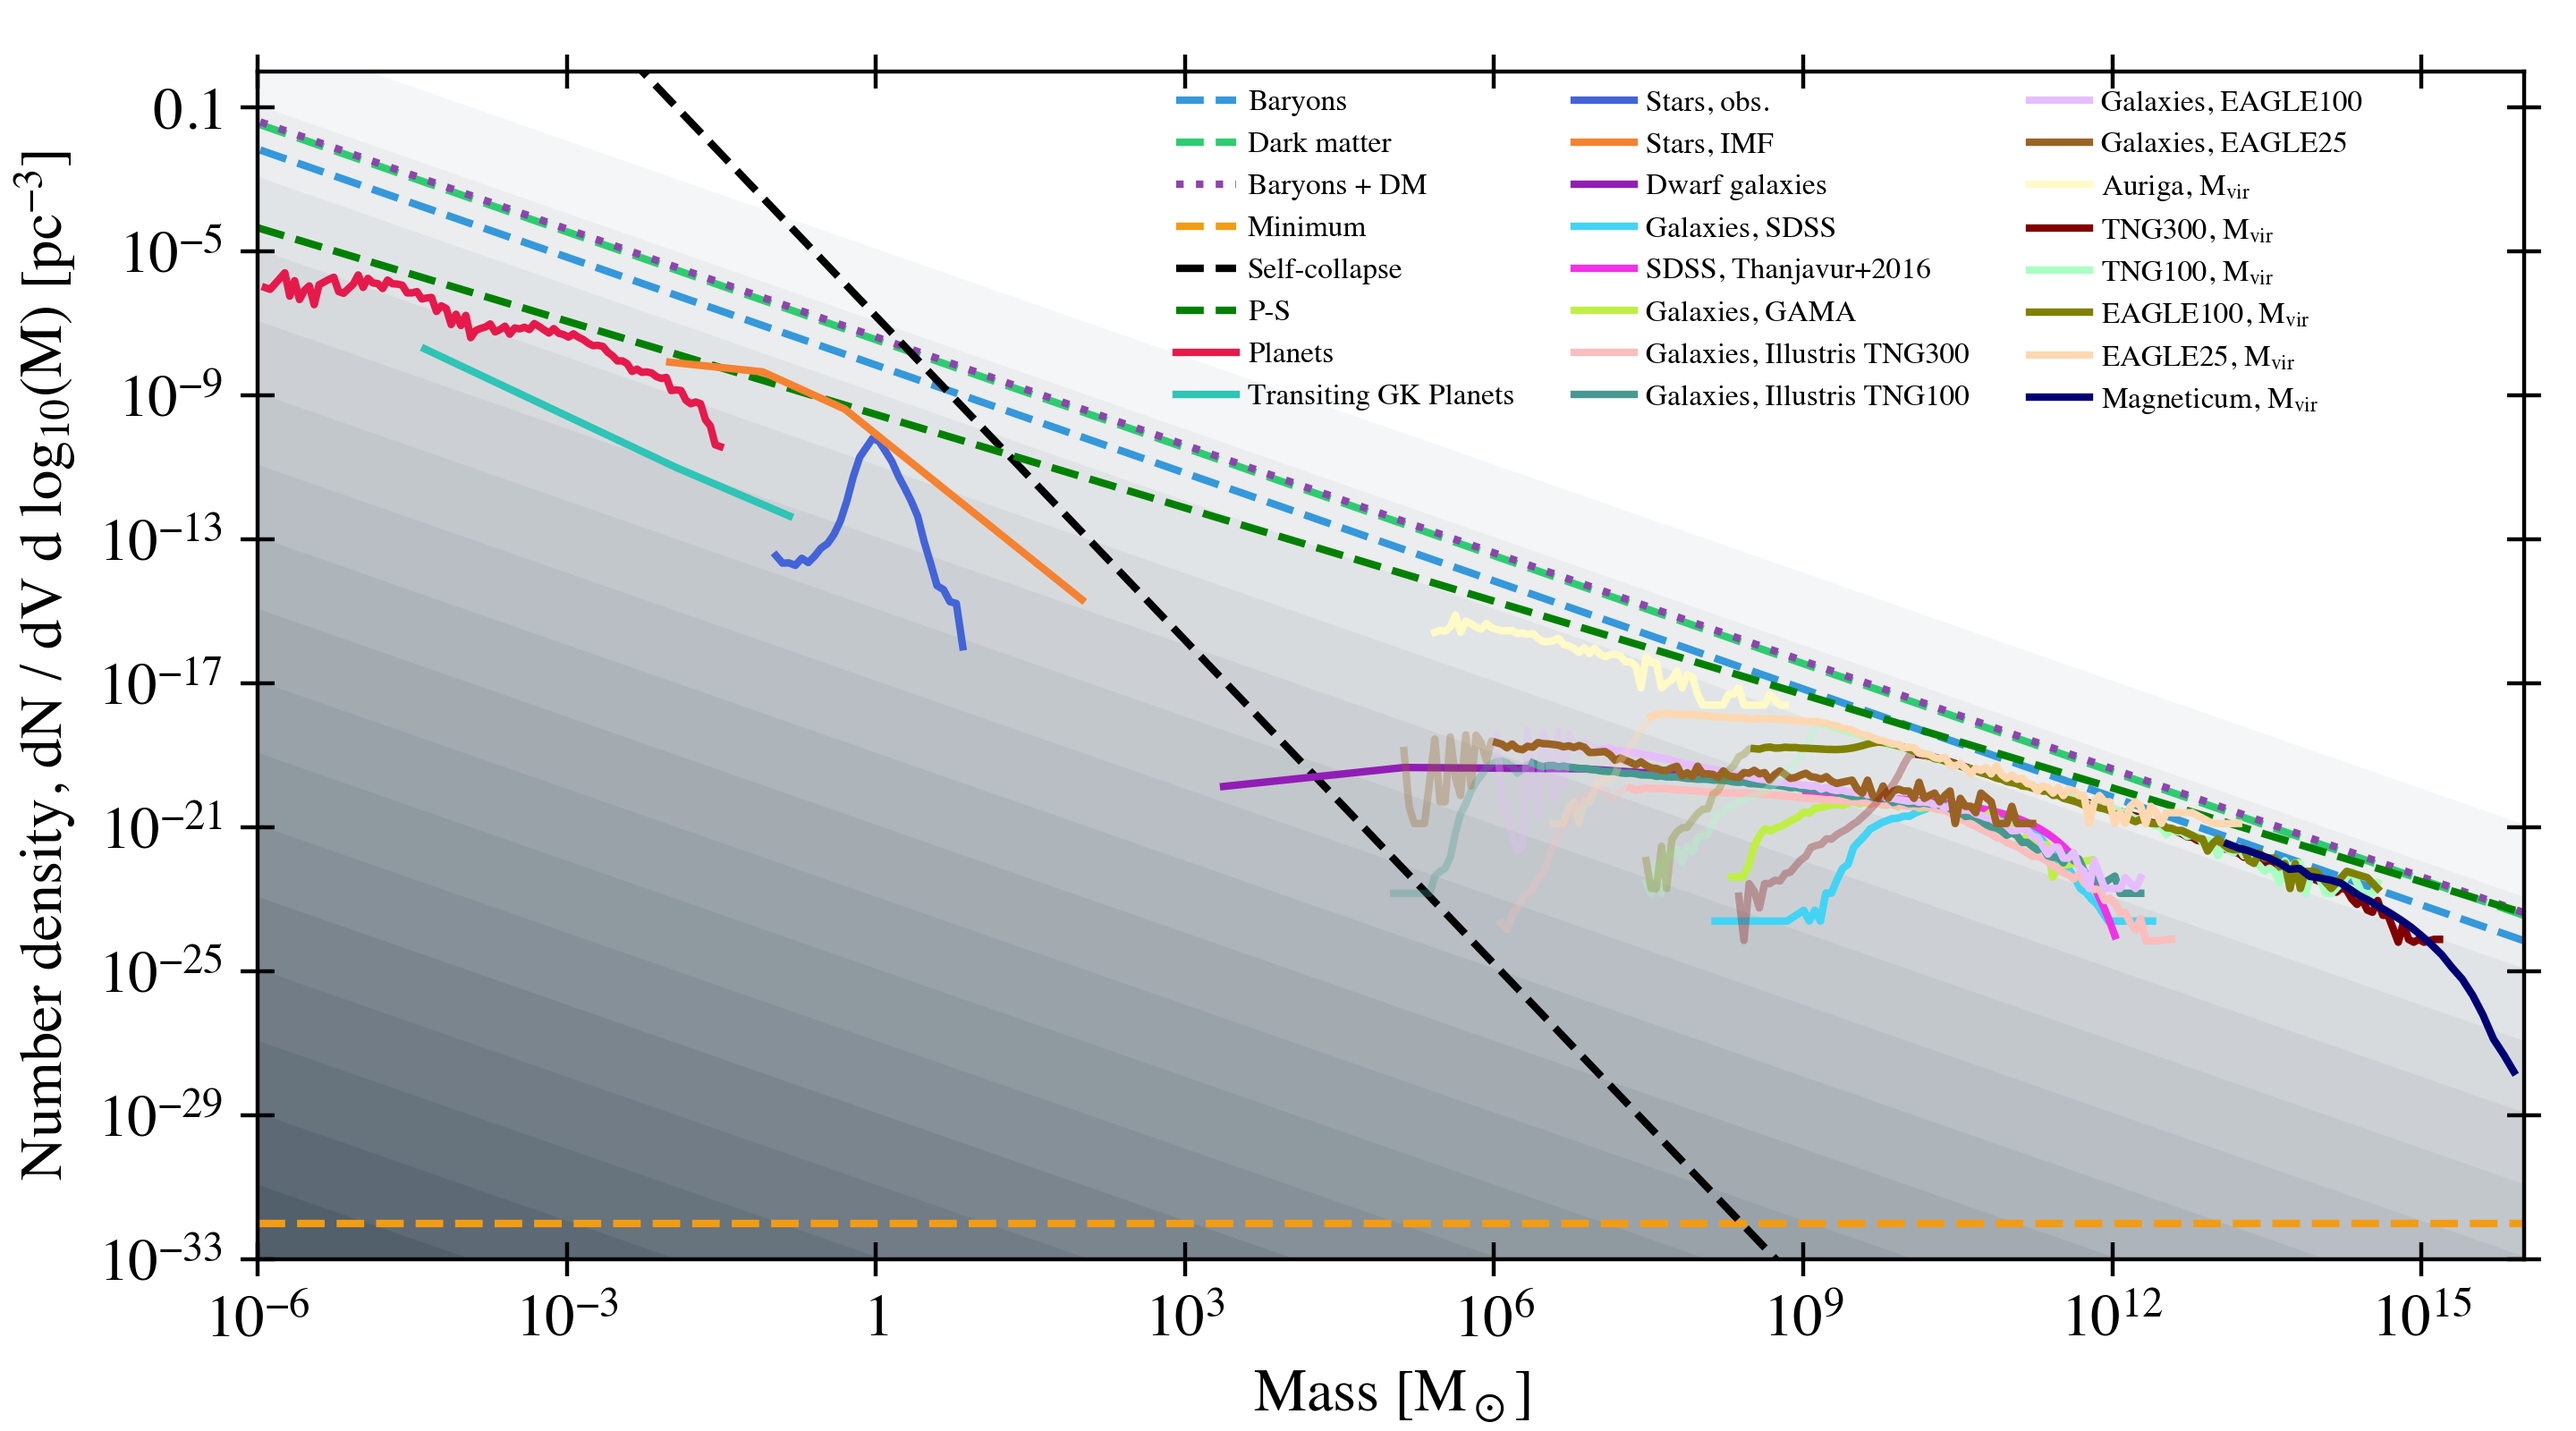
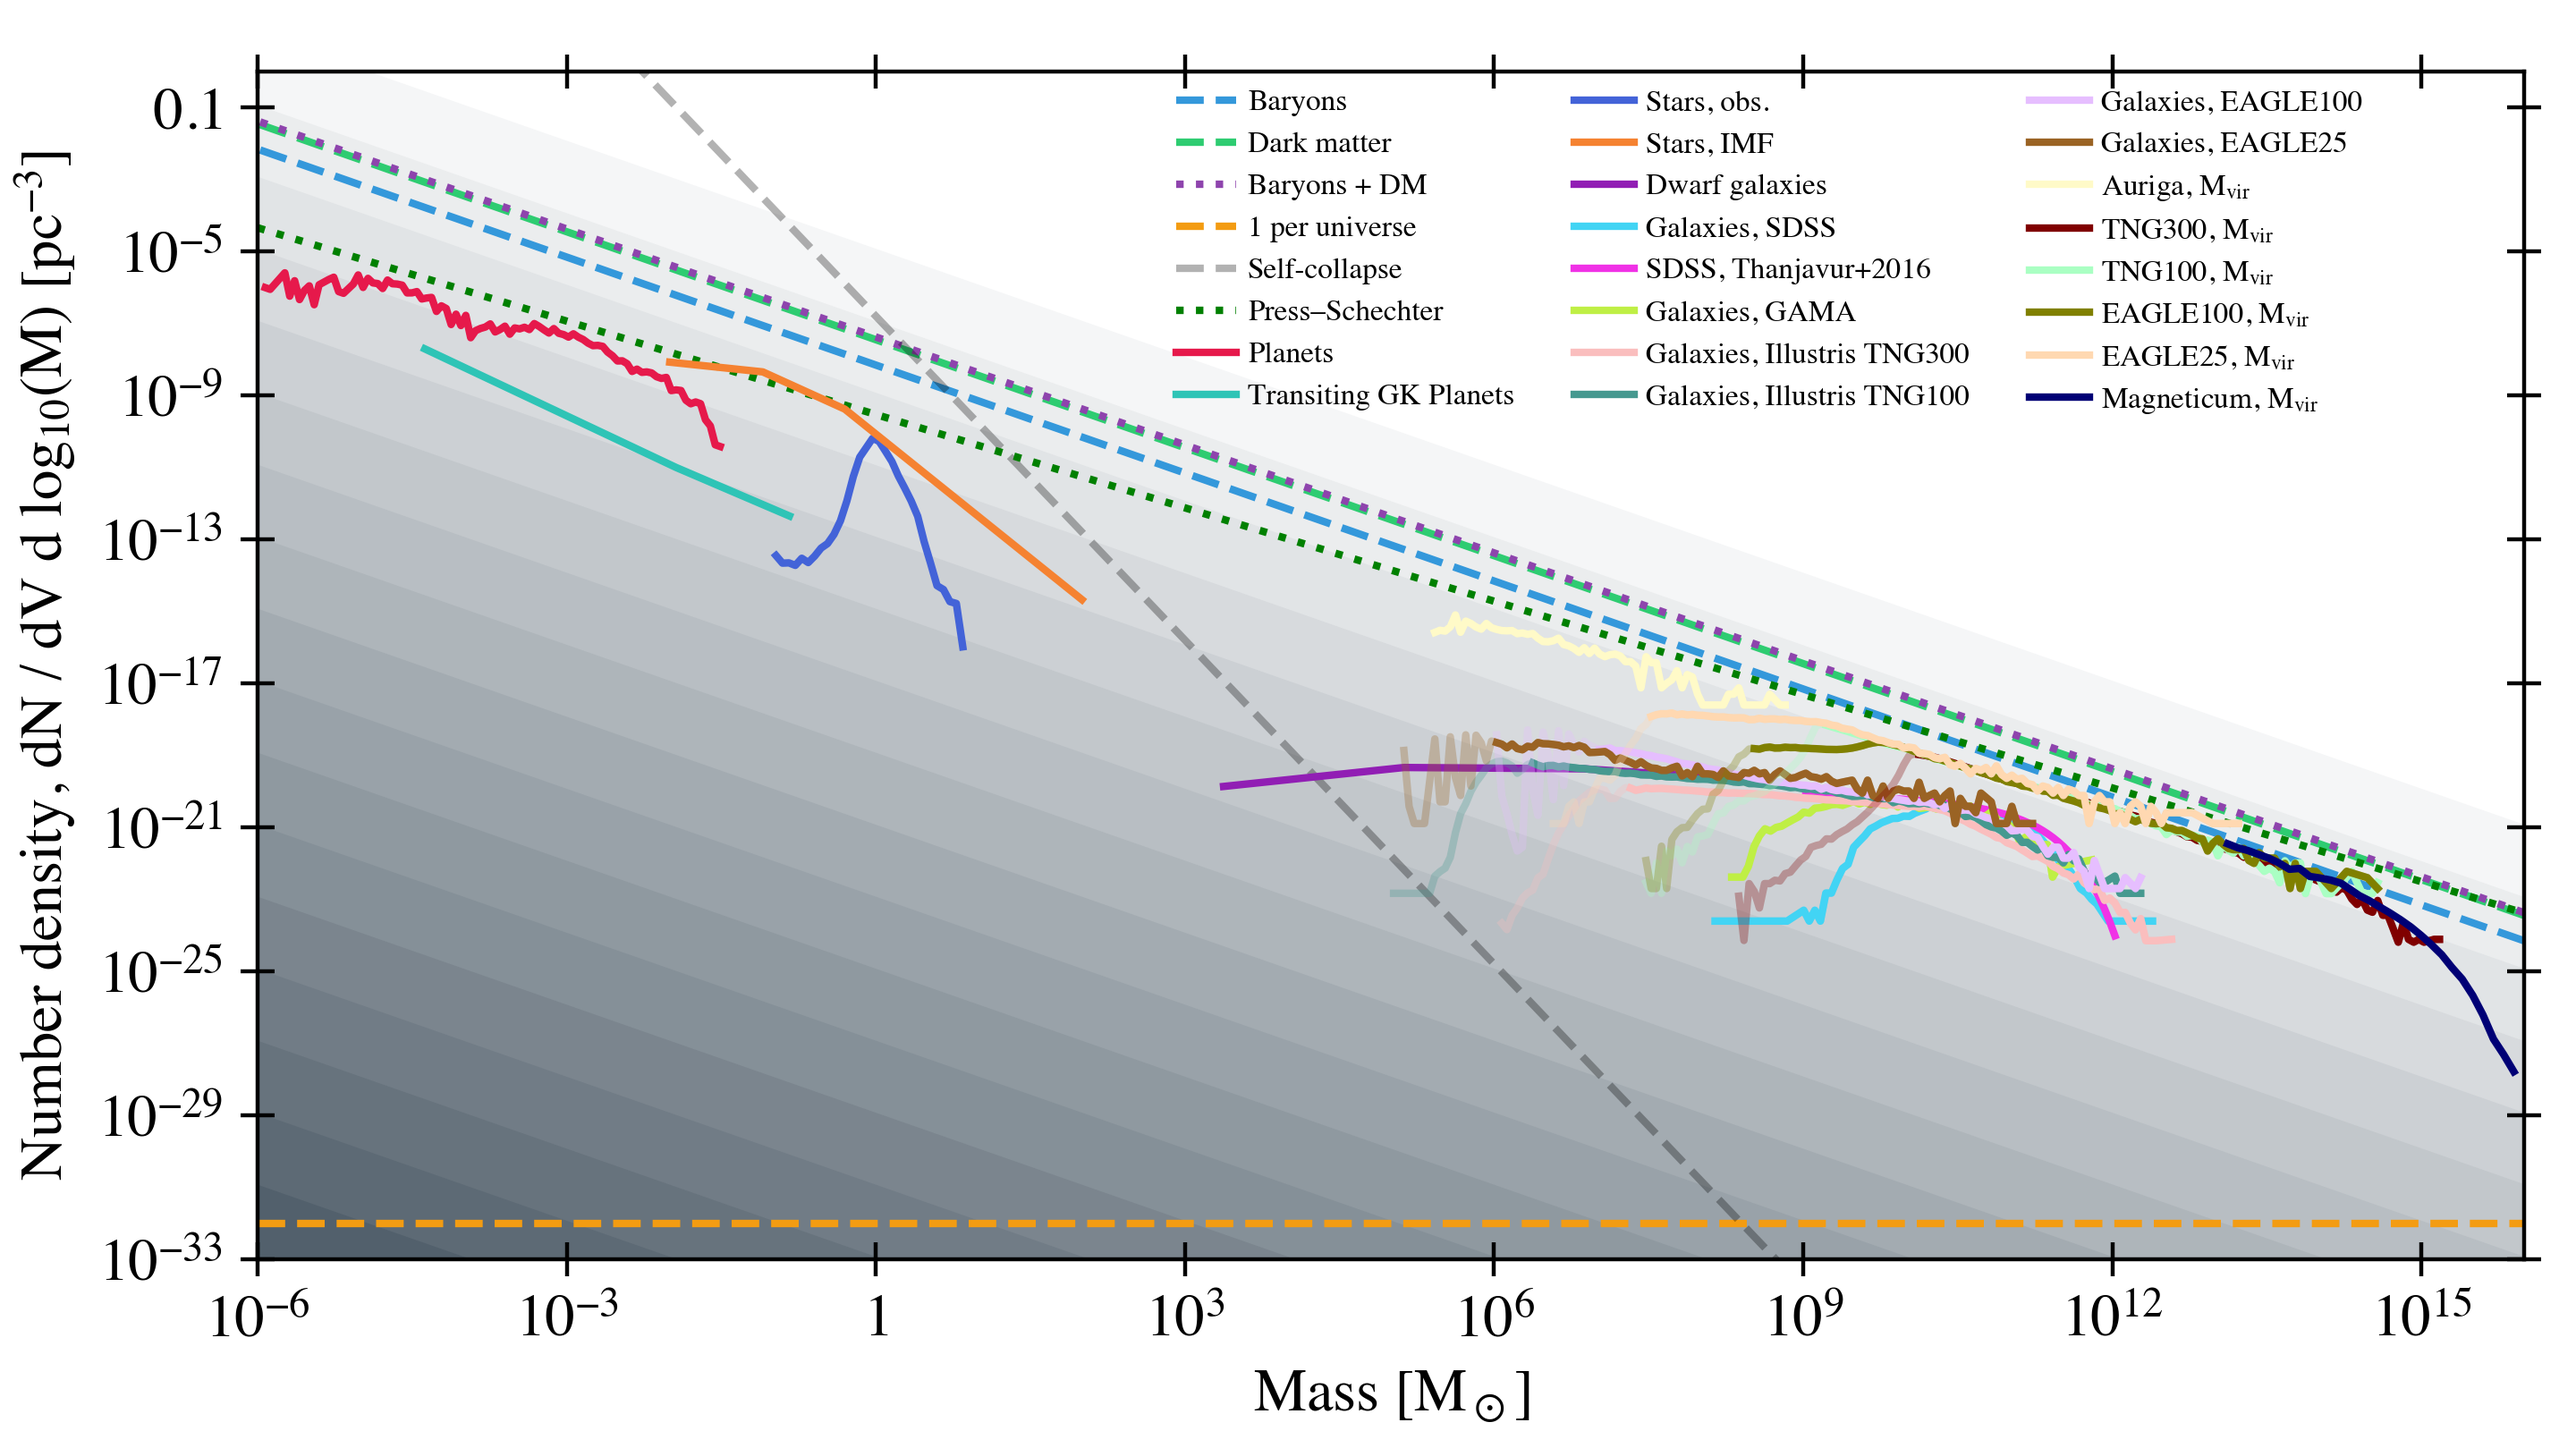
update hist plot

diff --git a/figures/histogram_plots.py b/figures/histogram_plots.py
@@ -56,9 +56,9 @@ from theoretical_constraints import M_lim, baryons, cdm, matter, nmin, ncollapse
 ax1.plot(M_lim, baryons, c='#3498DB', ls='--', label='Baryons')
 ax1.plot(M_lim, cdm,  c='#2ECC71', ls='--', label='Dark matter')
 ax1.plot(M_lim, matter, c='#8E44AD', ls=':', label='Baryons + DM')
-ax1.axhline(nmin, ls='--', c='#F39C12', label='Minimum')
-ax1.plot(M_lim, ncollapse / M_lim, ls='--', c='k', label='Self-collapse')
-ax1.plot(m_nps[:-1], nps, ls='--', c='g', label='Press–Schechter')
+ax1.axhline(nmin, ls='--', c='#F39C12', label='1 per universe')
+ax1.plot(M_lim, ncollapse / M_lim, ls='--', c='k', alpha=.3, label='Self-collapse')
+ax1.plot(m_nps[:-1], nps, ls=':', c='g', label='Press–Schechter')
 
 
 ## observations and simulations
